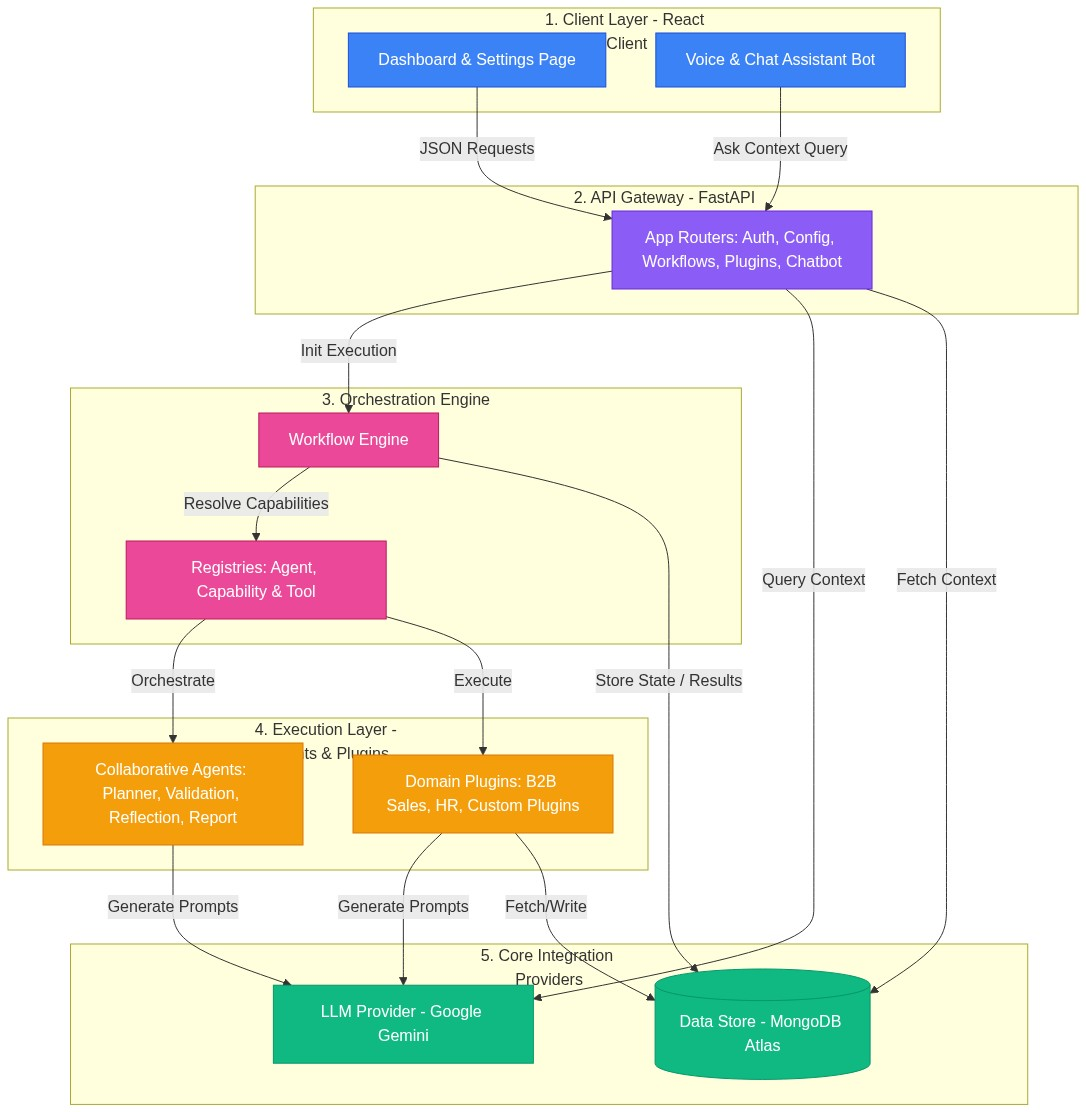
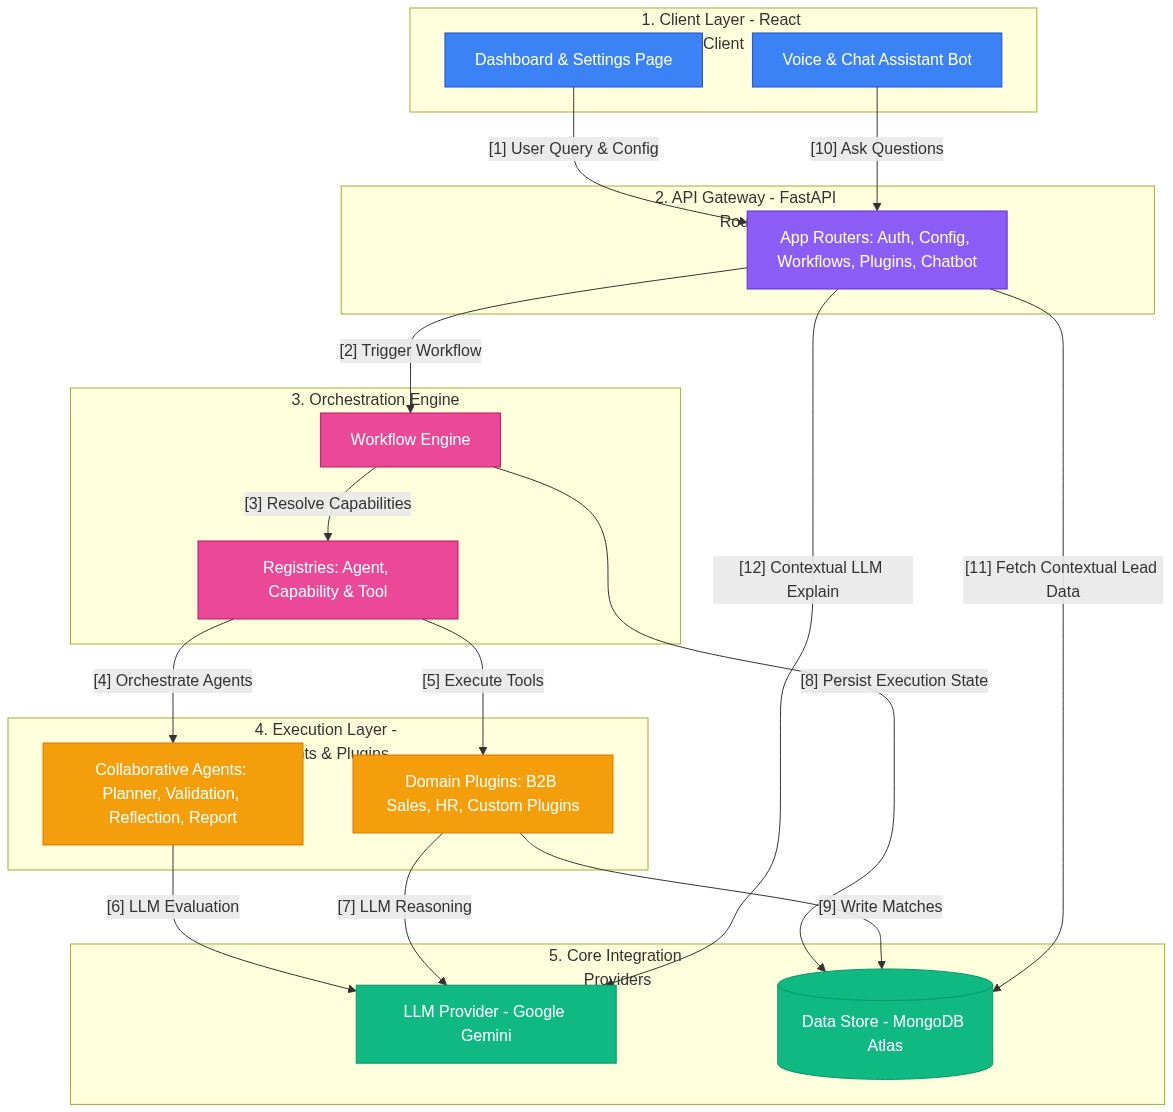
Add numbered architecture diagram, walkthrough script, and update README deliverables links

diff --git a/backend/generate_diagram.py b/backend/generate_diagram.py
@@ -27,22 +27,22 @@ MERMAID_DIAGRAM = """graph TD
         DB[(Data Store - MongoDB Atlas)]
     end
 
-    UI -->|JSON Requests| API
-    AB -->|Ask Context Query| API
+    UI -->|"[1] User Query & Config"| API
+    API -->|"[2] Trigger Workflow"| WE
+    WE -->|"[3] Resolve Capabilities"| REG
     
-    API -->|Init Execution| WE
-    WE -->|Resolve Capabilities| REG
+    REG -->|"[4] Orchestrate Agents"| AGENTS
+    REG -->|"[5] Execute Tools"| PLUGINS
     
-    REG -->|Orchestrate| AGENTS
-    REG -->|Execute| PLUGINS
+    AGENTS -->|"[6] LLM Evaluation"| LP
+    PLUGINS -->|"[7] LLM Reasoning"| LP
     
-    AGENTS -->|Generate Prompts| LP
-    PLUGINS -->|Generate Prompts| LP
-    API -->|Query Context| LP
+    WE -->|"[8] Persist Execution State"| DB
+    PLUGINS -->|"[9] Write Matches"| DB
     
-    WE -->|Store State / Results| DB
-    PLUGINS -->|Fetch/Write| DB
-    API -->|Fetch Context| DB
+    AB -->|"[10] Ask Questions"| API
+    API -->|"[11] Fetch Contextual Lead Data"| DB
+    API -->|"[12] Contextual LLM Explain"| LP
 
     classDef client fill:#3b82f6,stroke:#1d4ed8,color:#fff;
     classDef gateway fill:#8b5cf6,stroke:#6d28d9,color:#fff;

diff --git a/ARCHITECTURE_WALKTHROUGH.md b/ARCHITECTURE_WALKTHROUGH.md
@@ -1,0 +1,62 @@
+# 🎬 5-Minute Architecture Walkthrough Script (Presenter Guide)
+
+This guide provides a step-by-step presentation script corresponding exactly to the numbered steps in the system architecture diagram. Use this to record your **5-minute Architecture Walkthrough Video**.
+
+---
+
+## 📽️ Presenter Roadmap & Script
+
+### Introduction (0:00 - 0:30)
+> *"Hello. Today I will walk you through the architectural design of the Reusable Agentic AI Platform. We have structured the system into five modular, decoupled layers to optimize reusability, orchestration integrity, and user experience. 
+> 
+> Let's trace how data moves through this architecture step-by-step."*
+
+---
+
+### Step 1: User Request Ingestion (0:30 - 1:15)
+*   **On Screen**: Point to **Client Layer** (Blue) connecting to **API Gateway Layer** (Purple).
+*   **Numbered Path**: `[1] User Query & Config`
+> *"**Step 1:** The user enters a search query on the Dashboard and defines their ideal target profile under settings. The React client packages these parameters as a JSON payload and transmits them to our FastAPI backend gateway via HTTP requests, secured by JWT bearer authorization."*
+
+---
+
+### Steps 2 & 3: Workflow Trigger & Capability Resolution (1:15 - 2:00)
+*   **On Screen**: Point to **API Gateway** connecting to **Orchestration Engine** (Pink).
+*   **Numbered Path**: `[2] Trigger Workflow` and `[3] Resolve Capabilities`
+> *"**Step 2:** The API gateway triggers the Workflow Engine. 
+>
+> **Step 3:** Instead of hardcoding execution paths, the engine consults our Capability, Agent, and Tool registries. It dynamically maps dependencies by matching request goals to available capabilities, deciding which specialized domain agent to execute."*
+
+---
+
+### Steps 4 & 5: Multi-Agent Execution & Domain Logic (2:00 - 3:00)
+*   **On Screen**: Point to **Orchestration Engine** connecting to **Execution Layer** (Orange).
+*   **Numbered Path**: `[4] Orchestrate Agents` and `[5] Execute Tools`
+> *"**Step 4:** The Registry spins up the collaborative agent loop—directing the Planner Agent, Validation Agent, and Reflection Agent.
+>
+> **Step 5:** The engine activates our Dynamic Domain Plugins—such as B2B Sales, HR recruitment, or custom user plugins. Heuristics are executed, scraping data and filtering matches according to our dynamic weight scoring rules."*
+
+---
+
+### Steps 6 & 7: LLM Reasoning & Refinement (3:00 - 3:45)
+*   **On Screen**: Point to **Execution Layer** connecting to **Core Integration Providers** (Green).
+*   **Numbered Path**: `[6] LLM Evaluation` and `[7] LLM Reasoning`
+> *"**Step 6 & 7:** During execution, both the core agents and plugins leverage our LLM Provider Abstraction layer to query Google Gemini. This layer implements automatic retry backoffs and fails over automatically if any API limit or daily quota is reached, ensuring high platform availability."*
+
+---
+
+### Steps 8 & 9: DB Persistence & Output (3:45 - 4:15)
+*   **On Screen**: Point to **Engine/Execution** connecting to **Database** (Green).
+*   **Numbered Path**: `[8] Persist Execution State` and `[9] Write Matches`
+> *"**Step 8 & 9:** As tasks are completed, the Workflow Engine serializes the progress and writes the execution state to MongoDB. The plugin writes qualified candidate profiles and match scores directly to the database, ensuring memory is preserved."*
+
+---
+
+### Steps 10, 11 & 12: Contextual AI Assistant (4:15 - 5:00)
+*   **On Screen**: Point to **Assistant Bot** (Blue) connecting to **API Gateway** and then to **Database & LLM**.
+*   **Numbered Path**: `[10] Ask Questions` -> `[11] Fetch Contextual Lead Data` -> `[12] Contextual LLM Explain`
+> *"**Step 10:** Finally, when a user interacts with the Chat or Voice Assistant in the frontend, the query is dispatched to the chatbot router.
+>
+> **Step 11 & 12:** The backend fetches the target workflow matches from MongoDB and passes them as rich system context to Gemini, generating natural-language explanations of *why* candidates qualified.
+>
+> This clean, decoupled structure ensures that any business plugin can be registered and executed seamlessly. Thank you."*

diff --git a/README.md b/README.md
@@ -7,7 +7,8 @@ A modular, production-grade Multi-Agent AI Platform designed to dynamically plan
 ## 📽️ Submission Deliverables
 
 *   🎥 **[5-Minute Demo Video](https://github.com/Muralikrishn123/AI-Agentic-Platform)** (Showcasing Platform & B2B Lead Generation Use Case)
-*   🏗️ **[5-Minute Architecture Walkthrough](https://github.com/Muralikrishn123/AI-Agentic-Platform)** (Explaining design decisions, registries, and dynamic routing)
+*   🏗️ **[5-Minute Architecture Walkthrough](ARCHITECTURE_WALKTHROUGH.md)** (Step-by-step numbered guide explaining design decisions, registries, and dynamic routing)
+*   📐 **[Architecture Design Document](ARCHITECTURE.md)** (Full technical documentation with sequence diagrams and qualification formulas)
 *   💻 **[GitHub Repository Source Code](https://github.com/Muralikrishn123/AI-Agentic-Platform)** (Fully structured documentation & setup instructions)
 
 ---